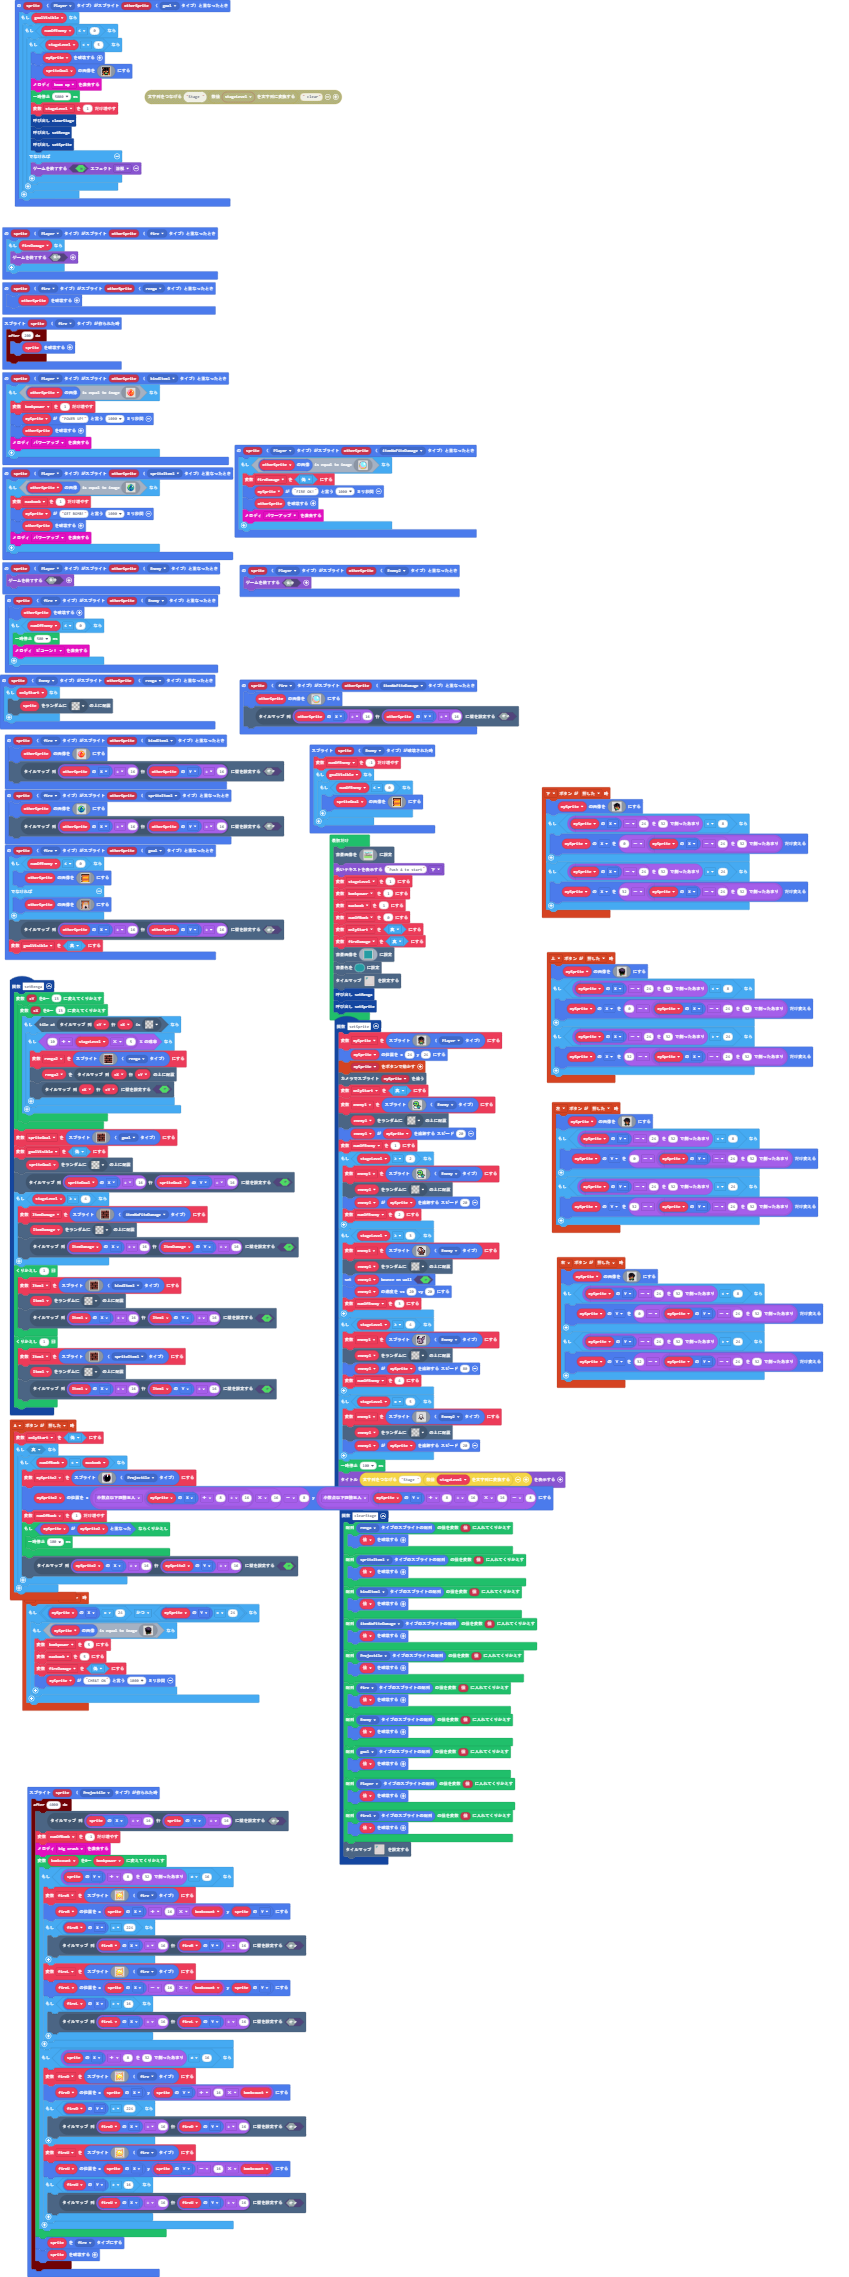
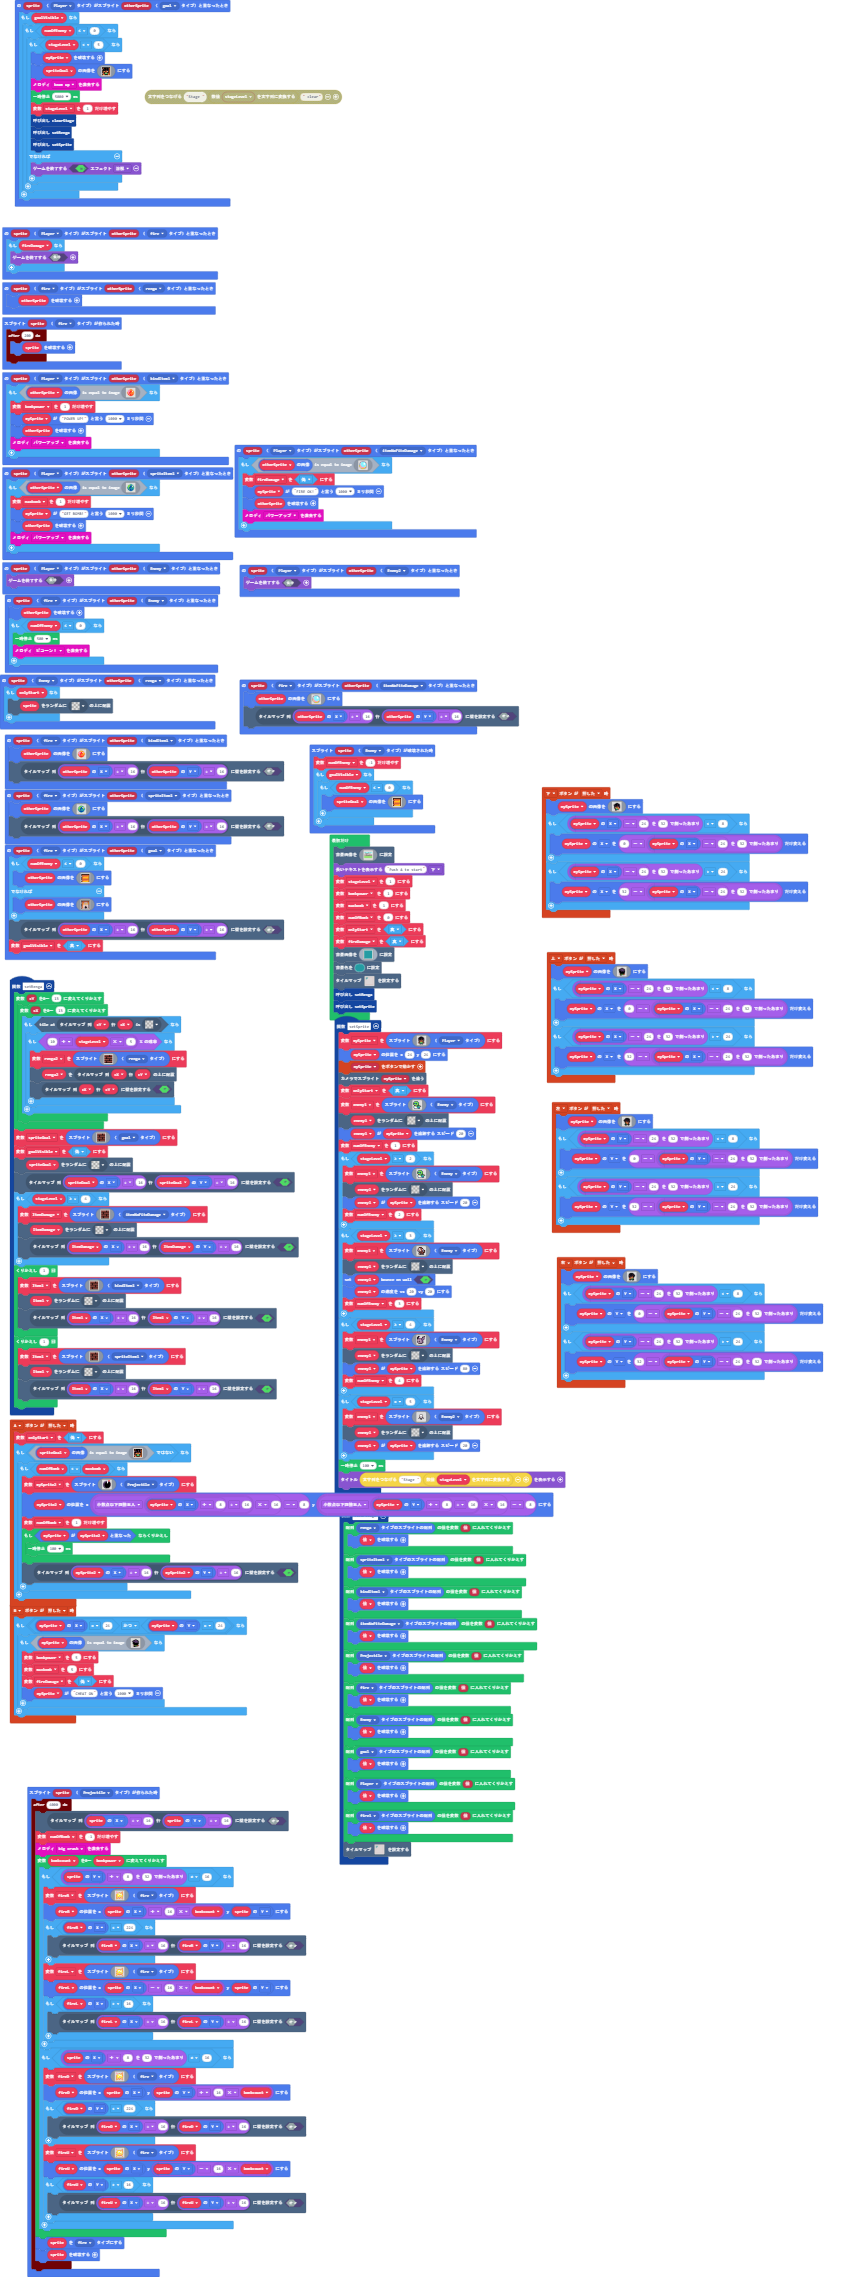
更新 main.blocks, main.ts

Changed region(s): [[0.0, 0.6236, 0.6431, 0.7795]]

diff --git a/main.ts b/main.ts
@@ -816,7 +816,24 @@ sprites.onOverlap(SpriteKind.Player, SpriteKind.Enemy, function (sprite, otherSp
 })
 controller.A.onEvent(ControllerButtonEvent.Pressed, function () {
     onlyStart = false
-    if (true) {
+    if (!(spriteGoal.image.equals(img`
+        f f f f f f f f f f f f f f f f 
+        f e e e f f f f f f f f e e e f 
+        f e 4 f f f f f f c f f f 4 4 f 
+        f e f f f f f f c c f f f c 4 f 
+        b e f f f c f f f f f f f c 4 f 
+        b e c c c f f f e e f f c c 4 f 
+        f e f f f f f e e f f c c f 4 f 
+        f e f f f b f e e f b f f f 4 f 
+        f e 4 f 4 1 f 4 4 f 1 4 f 4 4 f 
+        f e 4 f e 4 4 4 4 4 4 e f 4 4 f 
+        f e 4 f f f e e e e f f f 4 4 f 
+        f e f e f b 7 7 7 7 b f e f 4 f 
+        b e e 4 f 7 7 7 7 7 7 f 4 e 4 f 
+        b e e e f 6 6 6 6 6 6 f e e 4 f 
+        f e 4 4 4 f f f f f f 4 4 4 4 f 
+        f e 4 4 4 f f 4 4 f f 4 4 4 4 f 
+        `))) {
         if (numOfBomb < maxbomb) {
             mySprite2 = sprites.create(img`
                 . . . . . . . . . . 2 2 2 2 . . 
